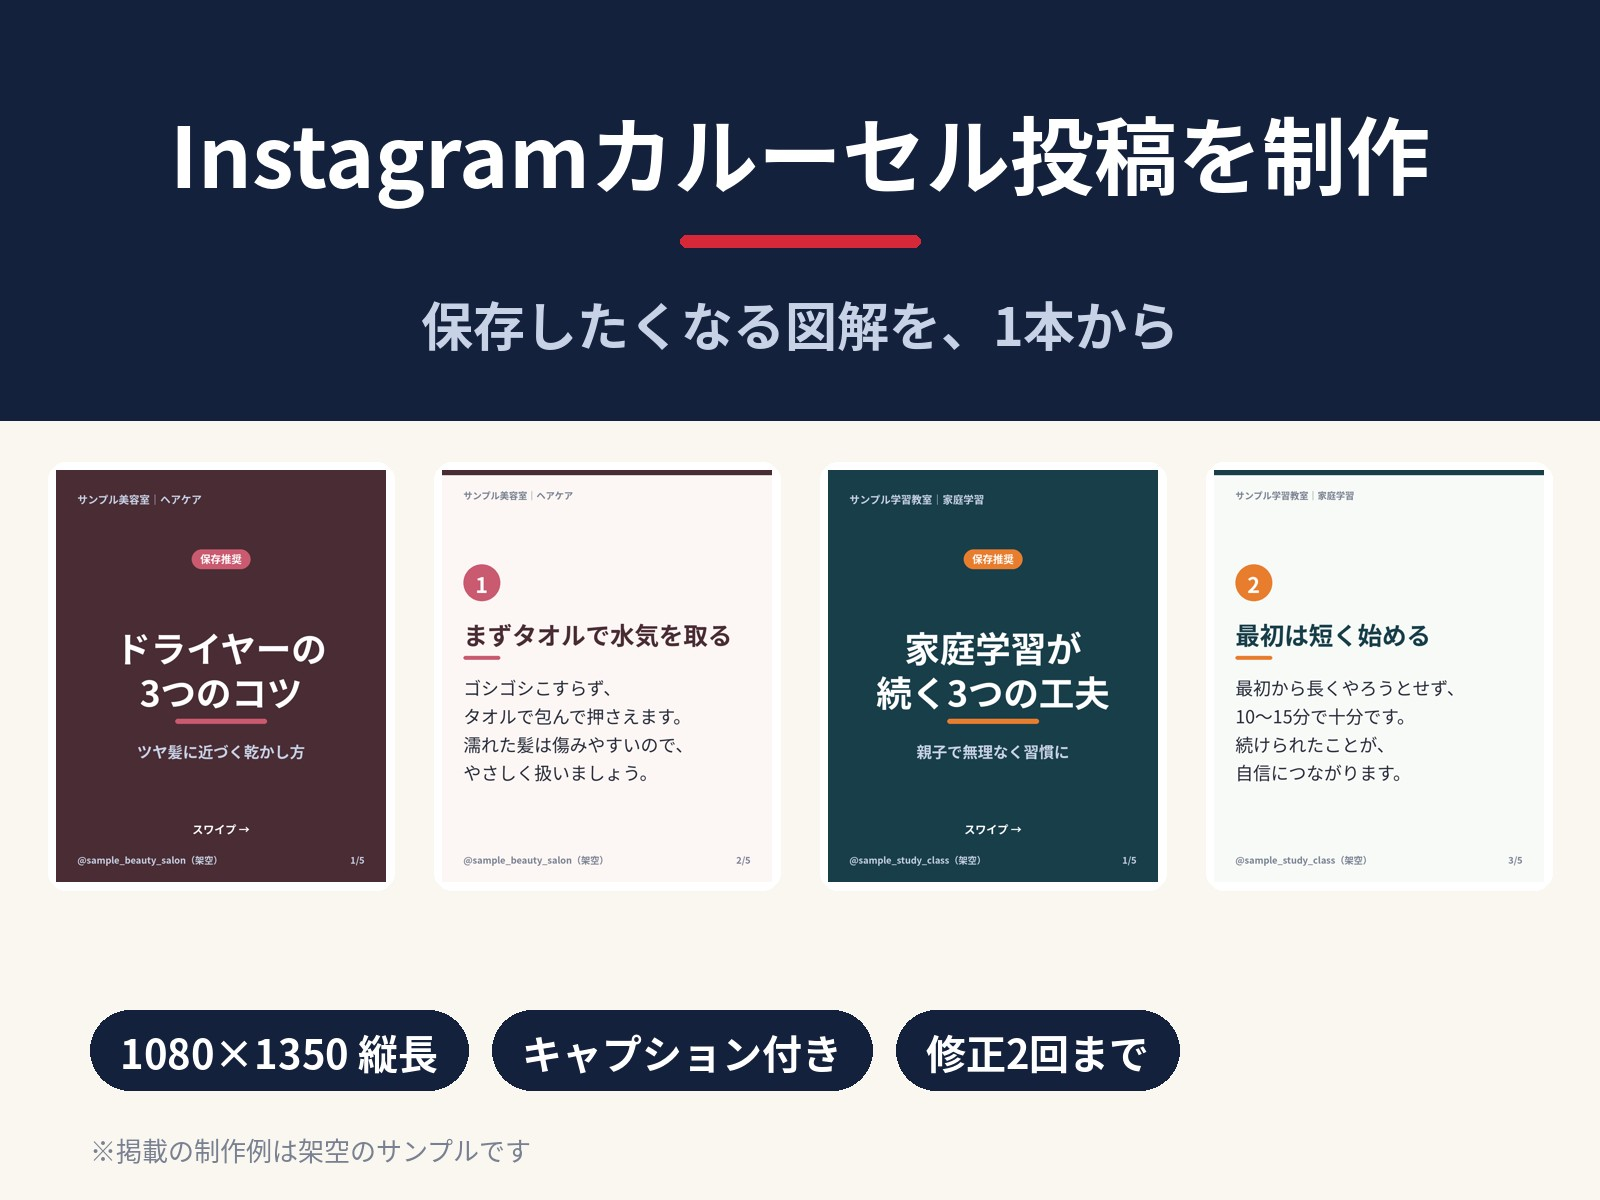
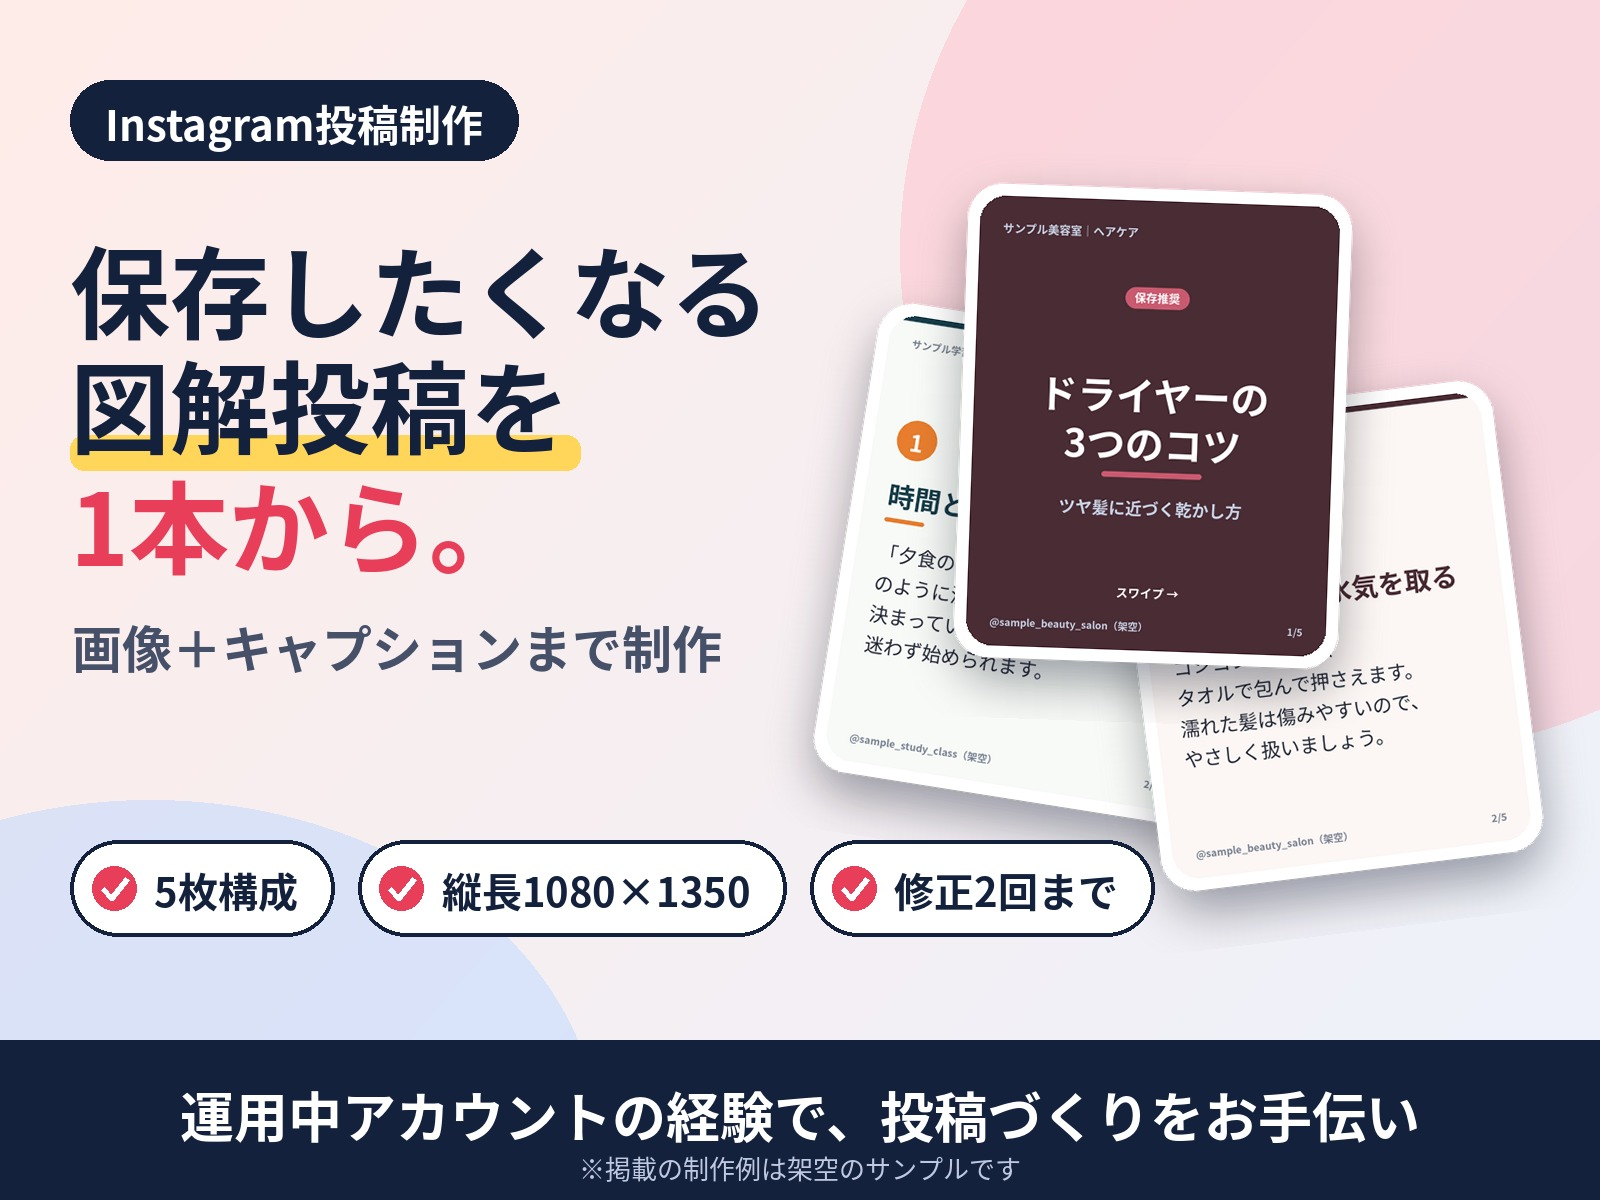
出品メイン画像を見栄え重視のデザインに変更
Claude-Session: https://claude.ai/code/session_01TtFXkPnRsGgJBzS5hLWaoP

diff --git a/business/samples/make_samples.py b/business/samples/make_samples.py
@@ -63,39 +63,80 @@ def render_set(name: str) -> list[Image.Image]:
     return ims
 
 
+def _card(src: Image.Image, w: int, h: int, angle: float):
+    """角丸＋影つきのカードを回転させて返す（RGBA）"""
+    from PIL import ImageFilter
+    pad = 60
+    im = src.resize((w, h)).convert("RGBA")
+    mask = Image.new("L", (w, h), 0)
+    ImageDraw.Draw(mask).rounded_rectangle((0, 0, w - 1, h - 1), radius=26, fill=255)
+    im.putalpha(mask)
+    border = Image.new("RGBA", (w + 24, h + 24), (0, 0, 0, 0))
+    bd = ImageDraw.Draw(border)
+    bd.rounded_rectangle((0, 0, w + 23, h + 23), radius=34, fill=(255, 255, 255, 255))
+    border.alpha_composite(im, (12, 12))
+    canvas = Image.new("RGBA", (w + 24 + pad * 2, h + 24 + pad * 2), (0, 0, 0, 0))
+    shadow = Image.new("RGBA", canvas.size, (0, 0, 0, 0))
+    ImageDraw.Draw(shadow).rounded_rectangle((pad + 6, pad + 24, pad + w + 18, pad + h + 42), radius=34, fill=(20, 33, 61, 110))
+    shadow = shadow.filter(ImageFilter.GaussianBlur(24))
+    canvas.alpha_composite(shadow)
+    canvas.alpha_composite(border, (pad, pad))
+    return canvas.rotate(angle, expand=True, resample=Image.BICUBIC)
+
+
 def listing_main(sets: dict[str, list[Image.Image]]) -> None:
     """出品ページのメイン画像（4:3, 1600x1200）"""
     apply(THEMES["study"])
     CW, CH = 1600, 1200
-    NAVY, ACC, CREAM = (20, 33, 61), (214, 40, 57), (250, 247, 240)
-    im = Image.new("RGB", (CW, CH), CREAM)
-    d = ImageDraw.Draw(im)
-    d.rectangle((0, 0, CW, 420), fill=NAVY)
-    t1, t2 = "Instagramカルーセル投稿を制作", "保存したくなる図解を、1本から"
-    f1, f2 = R.font(True, 84), R.font(True, 52)
-    d.text(((CW - f1.getlength(t1)) / 2, 90), t1, font=f1, fill=(255, 255, 255))
-    d.rounded_rectangle((CW / 2 - 120, 235, CW / 2 + 120, 247), radius=6, fill=ACC)
-    d.text(((CW - f2.getlength(t2)) / 2, 285), t2, font=f2, fill=(200, 210, 230))
-    # 実績の自分のアカウント画像は含めず、制作例（架空サンプル）を並べる
-    picks = [sets["beauty"][0], sets["beauty"][1], sets["study"][0], sets["study"][2]]
-    tw, th = 330, 412
-    gap = (CW - tw * 4) // 5
-    for i, p in enumerate(picks):
-        x = gap + i * (tw + gap)
-        y = 470
-        d.rounded_rectangle((x - 8, y - 8, x + tw + 8, y + th + 8), radius=18, fill=(255, 255, 255))
-        im.paste(p.resize((tw, th)), (x, y))
-    badges = ["1080×1350 縦長", "キャプション付き", "修正2回まで"]
-    f3 = R.font(True, 40)
-    bx = 90
-    for b in badges:
-        w = f3.getlength(b) + 60
-        d.rounded_rectangle((bx, 1010, bx + w, 1090), radius=40, fill=NAVY)
-        d.text((bx + 30, 1022), b, font=f3, fill=(255, 255, 255))
+    NAVY, ACC = (20, 33, 61), (232, 62, 90)
+    # 背景：やわらかいグラデーション
+    im = Image.new("RGB", (CW, CH))
+    px = im.load()
+    for y in range(CH):
+        for x in range(0, CW):
+            t = (x / CW * 0.6 + y / CH * 0.4)
+            px[x, y] = (int(255 - 18 * t), int(236 + 6 * t), int(232 + 20 * t))
+    d = ImageDraw.Draw(im, "RGBA")
+    d.ellipse((900, -250, 1900, 750), fill=(255, 190, 200, 120))
+    d.ellipse((-300, 800, 600, 1500), fill=(190, 215, 255, 130))
+    # 左：見出し
+    f_pill, f_h, f_sub = R.font(True, 42), R.font(True, 100), R.font(True, 50)
+    pt = "Instagram投稿制作"
+    w = f_pill.getlength(pt) + 70
+    d.rounded_rectangle((70, 80, 70 + w, 160), radius=40, fill=NAVY)
+    d.text((105, 92), pt, font=f_pill, fill=(255, 255, 255))
+    # 見出し3行（2行目に蛍光ペン風のライン）
+    d.text((70, 215), "保存したくなる", font=f_h, fill=NAVY)
+    d.rounded_rectangle((70, 435, 70 + f_h.getlength("図解投稿を") + 10, 470), radius=14, fill=(255, 214, 90, 255))
+    d.text((70, 330), "図解投稿を", font=f_h, fill=NAVY)
+    d.text((70, 450), "1本から。", font=f_h, fill=ACC)
+    d.text((72, 610), "画像＋キャプションまで制作", font=f_sub, fill=(70, 80, 105))
+    # 右：カードを重ねて配置
+    cards = [(sets["study"][1], -9, 780, 250), (sets["beauty"][1], 7, 1080, 330), (sets["beauty"][0], -2, 930, 140)]
+    for src, ang, x, y in cards:
+        c = _card(src, 360, 450, ang)
+        im.paste(c, (x - 40, y - 20), c)
+    d = ImageDraw.Draw(im, "RGBA")
+    # 下：特徴バッジ
+    f_b = R.font(True, 40)
+    items = ["5枚構成", "縦長1080×1350", "修正2回まで"]
+    bx, by = 70, 840
+    for t in items:
+        w = f_b.getlength(t) + 120
+        d.rounded_rectangle((bx, by, bx + w, by + 96), radius=48, fill=(255, 255, 255, 255), outline=NAVY, width=4)
+        d.ellipse((bx + 22, by + 26, bx + 66, by + 70), fill=ACC)
+        d.line((bx + 32, by + 48, bx + 41, by + 58, bx + 57, by + 38), fill=(255, 255, 255), width=6, joint="curve")
+        d.text((bx + 84, by + 20), t, font=f_b, fill=NAVY)
         bx += w + 24
-    f4 = R.font(False, 26)
-    d.text((90, 1130), "※掲載の制作例は架空のサンプルです", font=f4, fill=(120, 128, 145))
-    im.save(HERE / "listing_main.jpg", quality=90, optimize=True)
+    # 下の帯
+    d.rectangle((0, 1040, CW, CH), fill=NAVY)
+    f_t = R.font(True, 54)
+    msg = "運用中アカウントの経験で、投稿づくりをお手伝い"
+    d.text(((CW - f_t.getlength(msg)) / 2, 1075), msg, font=f_t, fill=(255, 255, 255))
+    f_n = R.font(False, 26)
+    note = "※掲載の制作例は架空のサンプルです"
+    d.text(((CW - f_n.getlength(note)) / 2, 1148), note, font=f_n, fill=(190, 200, 225))
+    im.save(HERE / "listing_main.jpg", quality=92, optimize=True)
 
 
 def main() -> None:
